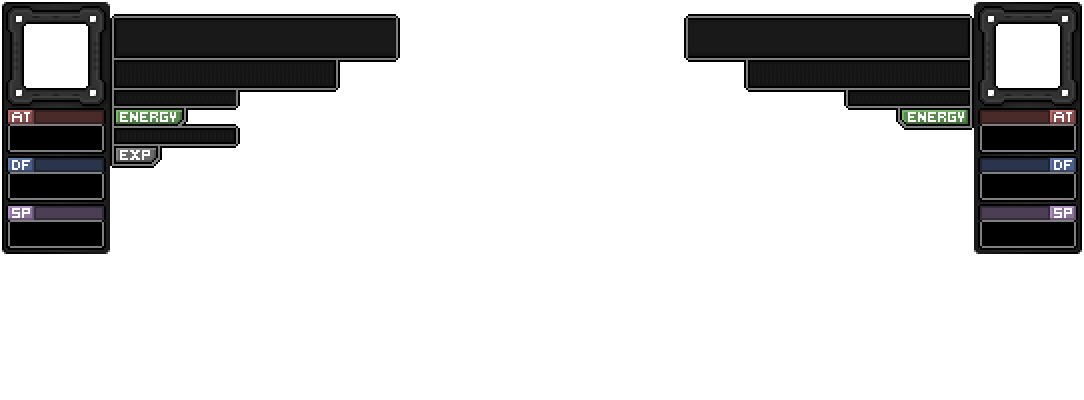
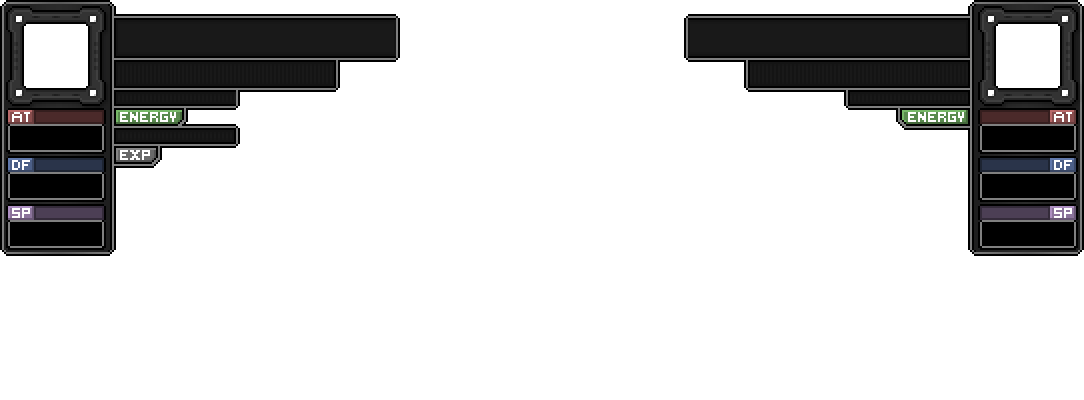
Adjusted the UI again w/ border.  Feels better now I think.

Changed region(s): [[0.8828, 0.0, 1.0, 0.66], [0.0, 0.0, 0.1218, 0.66]]

diff --git a/styles/style.css b/styles/style.css
@@ -614,7 +614,7 @@ body.index #header {
 }
 
 #mmrpg .robot_details_left {
-    background-image: url(../images/assets/battle-scene_robot-details-2k23.png?20231016-2);
+    background-image: url(../images/assets/battle-scene_robot-details-2k23.png?20231016-3);
     background-size: 542px 200px;
     background-position: 0 0;
     text-align: left;
@@ -622,7 +622,7 @@ body.index #header {
     left: 4px;
 }
 #mmrpg .robot_details_right {
-    background-image: url(../images/assets/battle-scene_robot-details-2k23.png?20231016-2);
+    background-image: url(../images/assets/battle-scene_robot-details-2k23.png?20231016-3);
     background-size: 542px 200px;
     background-position: -271px 0;
     text-align: right;
